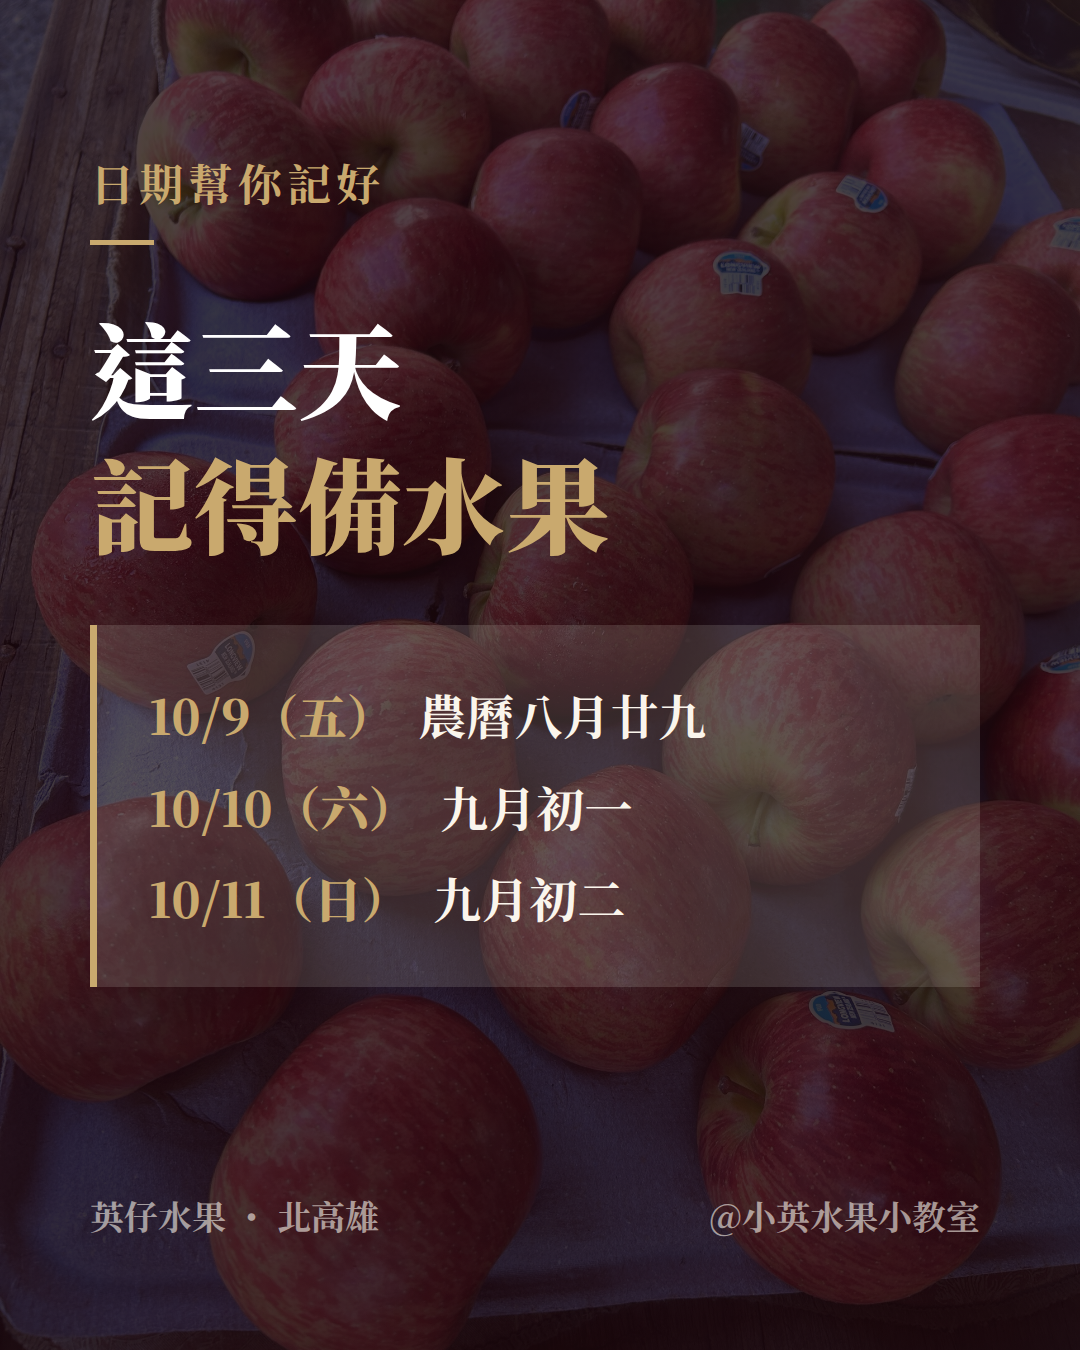
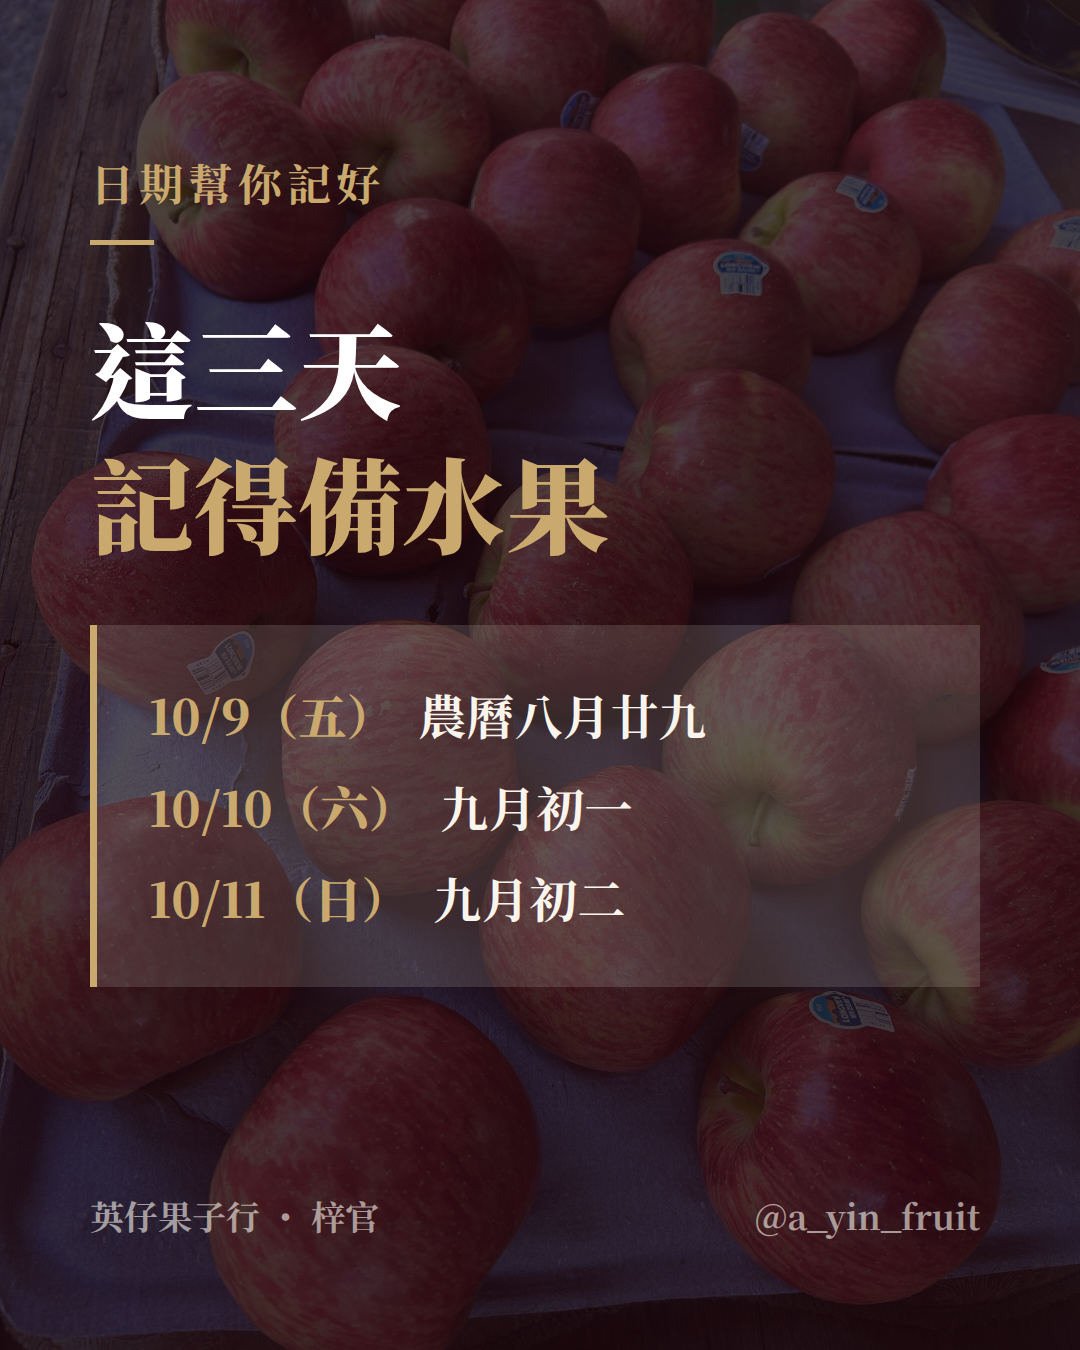
Use real brand (英仔果子行, @a_yin_fruit, 梓官 address/hours) and LINE OpenChat QR in graphics
Claude-Session: https://claude.ai/code/session_01PL7HGywDrPUdsLBcZeJFu6

Changed region(s): [[0.6722, 0.8711, 0.9167, 0.9333], [0.1528, 0.8711, 0.3667, 0.9333]]

diff --git a/ig/jingguo.html b/ig/jingguo.html
@@ -18,16 +18,16 @@ h2 em{font-style:normal;color:var(--gold)}
 </style></head><body>
 <script>
 // ===== 改這裡（價格請換成當天實際價格） =====
-const LINE_ID = '@你的LINE ID';
-const CUTOFF = '10/9（五）中午 12:00 前';
+const GROUP = '阿英的聊天群';
+const CUTOFF = '10/9（五）12:00 前下單';
 const ITEMS = ['紐西蘭蘋果　3 顆 100 元','次郎甜柿　1 顆 50 元','東山椪柑　80 元／斤','火龍果　60 元／斤','美國蜜世界　1 顆 400 元'];
 // ==========================================
 const OV='linear-gradient(rgba(28,8,12,.76),rgba(28,8,12,.82))';
 const bg=u=>`background-image:${OV},url(${u})`;
-const foot=`<div class="foot"><span>英仔水果 ・ 北高雄</span><span>@小英水果小教室</span></div>`;
+const foot=`<div class="foot"><span>英仔果子行 ・ 梓官</span><span>@a_yin_fruit</span></div>`;
 document.body.insertAdjacentHTML('beforeend', [
 `<div class="slide" style="${bg('photos/persimmon.jpg')}"><div class="label">10/10（六）九月初一</div><div class="bar"></div>
- <h2>初一拜拜的水果<br><em>你備好了嗎？</em></h2><div class="sub">提前預訂，北高雄送到家</div><div class="swipe">往右滑看清單 →</div>${foot}</div>`,
+ <h2>初一拜拜的水果<br><em>你備好了嗎？</em></h2><div class="sub">中午前預訂，當天送或來店自取</div><div class="swipe">往右滑看清單 →</div>${foot}</div>`,
 `<div class="slide" style="${bg('photos/apple-new.jpg')}"><div class="label">日期幫你記好</div><div class="bar"></div>
  <h2>這三天<br><em>記得備水果</em></h2>
  <div class="box"><b>10/9（五）</b>　農曆八月廿九<br><b>10/10（六）</b>　九月初一<br><b>10/11（日）</b>　九月初二</div>${foot}</div>`,
@@ -38,7 +38,7 @@ document.body.insertAdjacentHTML('beforeend', [
  <h2>拜拜水果<br><em>一次備齊</em></h2>
  <div class="box">${ITEMS.join('<br>')}</div>${foot}</div>`,
 `<div class="slide" style="${bg('photos/ponkan-new.jpg')}"><div class="label">怎麼預訂</div><div class="bar"></div>
- <h2>傳「品名＋數量」<br><em>我們幫你留</em></h2>
- <div class="box">LINE：${LINE_ID}<br>${CUTOFF}<br>下單當天送 ・ 可自取 ・ 現金付款</div>${foot}</div>`
+ <h2>傳「品名＋數量」<br><em>我們幫你留</em></h2><div class="sub">梓官區通安路215號 ・ 06:00–12:00</div>
+ <div class="box" style="display:flex;gap:36px;align-items:center;font-size:40px;line-height:1.8;padding:40px 44px"><div>${CUTOFF}<br>當天送或來店自取<br>現金付款<br><b>掃 QR 加入聊天群</b></div><img src="assets/line-openchat-qr.jpg" style="width:230px;height:230px;border:6px solid #fff;border-radius:10px;flex:none"></div>${foot}</div>`
 ].join(''));
 </script></body></html>

diff --git a/ig/carousel.html b/ig/carousel.html
@@ -1,6 +1,6 @@
 <!doctype html>
 <html lang="zh-Hant"><head><meta charset="utf-8">
-<title>小英水果小教室 輪播範本</title>
+<title>英仔果子行 輪播範本</title>
 <link rel="stylesheet" href="fonts/fonts.css">
 <style>
 :root{--wine:#6B1F2A;--cream:#FAF5EC;--gold:#C9A96E;--ink:#2B2B2B}
@@ -26,9 +26,9 @@ em{font-style:normal;color:var(--gold)}
 </style></head><body>
 <script>
 // ===== 每週只需改這裡 =====
-const HANDLE = '@小英水果小教室';
+const HANDLE = '@a_yin_fruit';
 const CFG = {
-  cover: {label:'小英水果小教室', title:['同樣是水果','為什麼有的','<em>超甜</em>有的<em>很酸</em>？'], sub:'答案＋這週 3 種必買，往右滑看', swipe:'滑動看答案', bg:'photos/grape.jpg'},
+  cover: {label:'英仔果子行', title:['同樣是水果','為什麼有的','<em>超甜</em>有的<em>很酸</em>？'], sub:'答案＋這週 3 種必買，往右滑看', swipe:'滑動看答案', bg:'photos/grape.jpg'},
   fruits: [
     {label:'No.1 韓國', name:['粒粒飽滿','韓國麝香葡萄'], sub:'一顆一顆都飽滿', bg:'photos/grape.jpg',
      points:['果粒圓潤飽滿','一口一顆很過癮','適合送禮、全家分食'], price:''},
@@ -49,7 +49,7 @@ const S = [];
 const c=CFG.cover;
 S.push(`<div class="slide" style="${bg(c.bg)}"><div class="label serif">${c.label}</div><div class="bar"></div>
  <h2 class="serif big">${c.title.join('<br>')}</h2><div class="sub">${c.sub}</div>
- <div class="swipe">${c.swipe} <span>→</span></div>${foot('英仔水果 ・ 北高雄')}</div>`);
+ <div class="swipe">${c.swipe} <span>→</span></div>${foot('英仔果子行 ・ 梓官')}</div>`);
 CFG.fruits.forEach(f=>S.push(`<div class="slide" style="${bg(f.bg)}"><div class="label serif">${f.label}</div><div class="bar"></div>
  <h2 class="serif">${f.name[0]}<br>${f.name[1]}</h2><div class="sub">${f.sub}</div>
  <div class="box">${f.points.join('<br>')}</div>${f.price?`<div class="price">${f.price}</div>`:''}${foot('')}</div>`));

diff --git a/ig/cta.html b/ig/cta.html
@@ -14,17 +14,17 @@ h2 em{font-style:normal;color:var(--gold)}
 .row{display:flex;gap:28px;align-items:flex-start;font-size:46px;line-height:1.5;margin-bottom:30px}
 .n{flex:none;width:64px;height:64px;border:3px solid var(--gold);color:var(--gold);border-radius:50%;display:flex;align-items:center;justify-content:center;font-size:36px}
 .bottom{margin-top:auto;display:flex;justify-content:space-between;align-items:flex-end}
-.qr{width:250px;height:250px;border:3px dashed var(--gold);color:var(--gold);display:flex;align-items:center;justify-content:center;font-size:30px;text-align:center}
+.qr{width:270px;height:270px;border:8px solid #fff;border-radius:12px}
 .small{font-size:32px;color:rgba(250,245,236,.75);line-height:1.7}
 </style></head><body>
 <script>
 // ===== 改這裡 =====
-const LINE_ID = '@你的LINE ID';
+const GROUP = '阿英的聊天群';
 // ==================
 document.body.insertAdjacentHTML('beforeend', `<div class="slide"><div class="frame"></div>
- <div class="k">小英水果小教室 ・ 英仔水果</div>
+ <div class="k">英仔果子行 ・ 梓官</div>
  <h2>喜歡這篇？<br><em>別錯過明天的新品</em></h2><div class="bar"></div>
  <div class="row"><span class="n">1</span><span>按讚追蹤，每天新品和價格第一手</span></div>
- <div class="row"><span class="n">2</span><span>想訂購，加 LINE：${LINE_ID}<br>直接回覆「品名＋數量」</span></div>
- <div class="bottom"><div class="small">中午 12:00 前下單當天送<br>北高雄配送 ・ 可自取 ・ 現金付款</div><div class="qr">放 LINE<br>QR Code</div></div></div>`);
+ <div class="row"><span class="n">2</span><span>想訂購、問價格<br>掃 QR 加入 LINE「${GROUP}」</span></div>
+ <div class="bottom"><div class="small">中午 12:00 前下單當天送<br>梓官區通安路215號 ・ 06:00–12:00</div><img class="qr" src="assets/line-openchat-qr.jpg" alt=""></div></div>`);
 </script></body></html>

diff --git a/ig/line.html b/ig/line.html
@@ -1,6 +1,6 @@
 <!doctype html>
 <html lang="zh-Hant"><head><meta charset="utf-8">
-<title>英仔水果 LINE 今日推薦</title>
+<title>英仔果子行 LINE 今日推薦</title>
 <link rel="stylesheet" href="fonts/fonts.css">
 <style>
 :root{--wine:#6B1F2A;--cream:#FAF5EC;--gold:#C9A96E;--ink:#2B2B2B}
@@ -50,13 +50,13 @@ const ITEMS = [
 ];
 // ==========================
 const cover = `<div id="cover"><div class="frame"></div>
- <div class="kicker serif">英仔水果 ・ 小英水果小教室</div>
+ <div class="kicker serif">英仔果子行 ・ 梓官</div>
  <h1 class="serif">今日<br><em>水果推薦</em></h1>
  <div class="date">${DATE}　新鮮到貨 ${ITEMS.length} 款</div>
  <div class="strip">${ITEMS.map(i=>`<div><i style="background-image:url(${i.img})"></i>${i.name.replace('美國','').replace('San Clemente ','')}</div>`).join('')}</div>
- <div class="brand serif">北高雄配送 ・ 歡迎自取</div></div>`;
-const list = `<div id="list"><div class="head"><div class="kicker serif">英仔水果</div>
- <h2 class="serif">${DATE} <em>今日推薦</em></h2><p>小英親自挑 ・ 北高雄在地配送</p><div class="bar"></div></div>
+ <div class="brand serif">梓官區通安路215號 ・ 06:00–12:00</div></div>`;
+const list = `<div id="list"><div class="head"><div class="kicker serif">英仔果子行</div>
+ <h2 class="serif">${DATE} <em>今日推薦</em></h2><p>每天親自挑 ・ 梓官在地</p><div class="bar"></div></div>
  ${ITEMS.map(i=>`<div class="card"><div class="ph" style="background-image:url(${i.img})"></div>
   <div class="tx"><span class="tag">${i.origin}</span><h3 class="serif">${i.name}</h3><p>${i.desc}</p>${i.price?`<div class="price">${i.price}</div>`:''}</div></div>`).join('')}
  <div class="cta"><h4 class="serif">想訂購？<br>直接回覆品名與數量</h4>

diff --git a/ig/card.html b/ig/card.html
@@ -1,6 +1,6 @@
 <!doctype html>
 <html lang="zh-Hant"><head><meta charset="utf-8">
-<title>英仔水果 單品卡片</title>
+<title>英仔果子行 單品卡片</title>
 <link rel="stylesheet" href="fonts/fonts.css">
 <style>
 :root{--wine:#6B1F2A;--cream:#FAF5EC;--gold:#C9A96E}
@@ -33,5 +33,5 @@ const ITEMS = [
 document.body.insertAdjacentHTML('beforeend', ITEMS.map(i=>`<div class="card" data-file="${i.file}"><div class="frame"></div>
  <div class="photo" style="background-image:url(${i.img})"><div class="stamp">${DATE} 今日推薦</div></div>
  <div class="body"><span class="tag">${i.origin}</span><h2 style="${i.name.length>7?"font-size:88px":""}">${i.name}</h2><p>${i.desc}</p>${i.price?`<div class="price">${i.price}</div>`:''}
- <div class="foot"><span>英仔水果・北高雄</span><b>回覆 LINE 訂購</b></div></div></div>`).join(''));
+ <div class="foot"><span>英仔果子行・梓官</span><b>回覆 LINE 訂購</b></div></div></div>`).join(''));
 </script></body></html>
